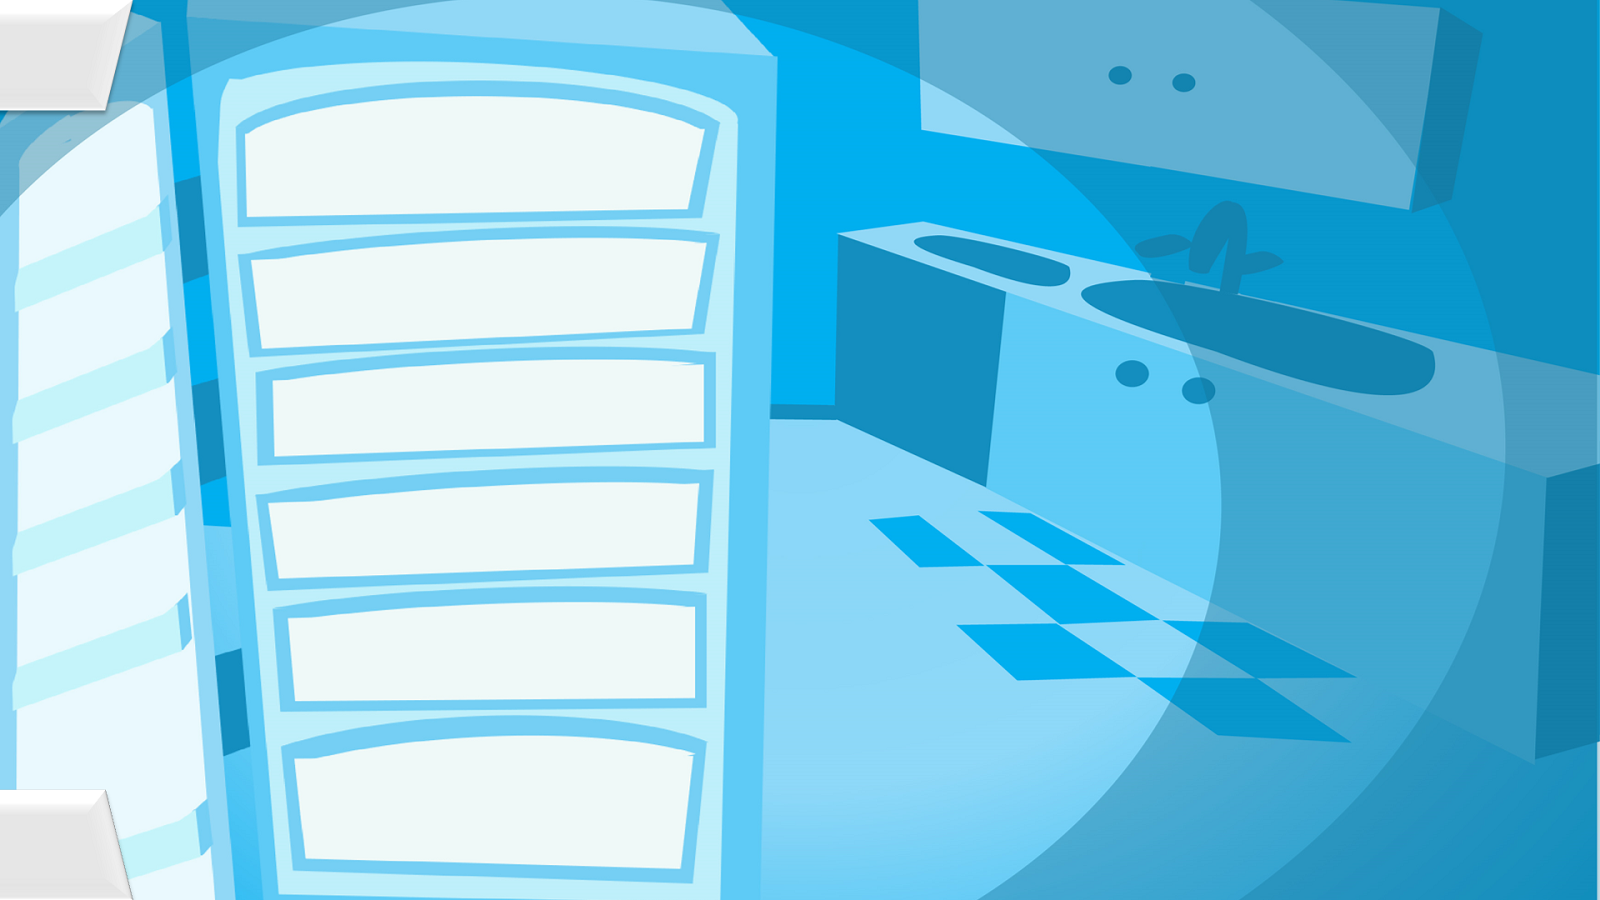
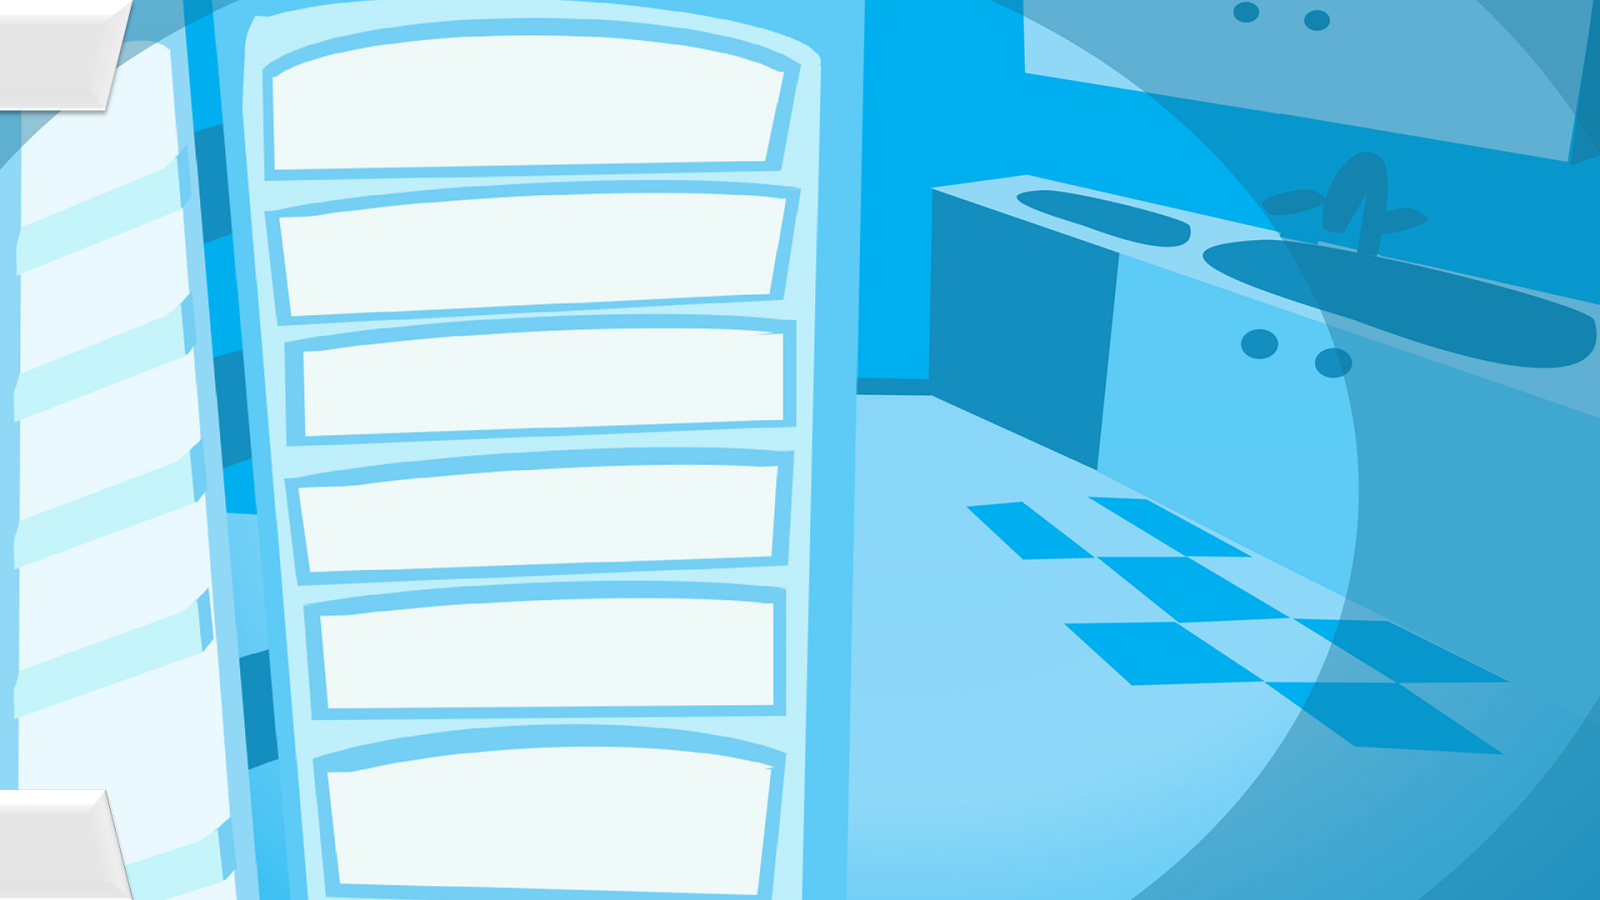
refScene 버튼

diff --git a/src/Scene/RefrigeratorScene.java b/src/Scene/RefrigeratorScene.java
@@ -89,44 +89,52 @@ public class RefrigeratorScene extends SceneAbst
       
       
       ScrollPane scrollPanel = new ScrollPane(ScrollPane.SCROLLBARS_AS_NEEDED);
-      scrollPanel.setBounds(300,215,450,120);
-      //scrollPanel.setBackground(Color.green);
+      scrollPanel.setBounds(300,215,450,105);      
+      /*JScrollPane scrollPanel = new JScrollPane();
+      scrollPanel.setBounds(300,215,450,105);
+      scrollPanel.setOpaque(false);*/
             
       linePanel2=new JPanel();
       linePanel2.setLayout(new FlowLayout());
       // linePanel2.setLayout(null);
-      //linePanel2.setBounds(290, 250, 410, 80);
-      //linePanel2.setBackground(Color.black);
+      //linePanel2.setBounds(290, 250, 410, 80);\
       linePanel2.setOpaque(false);
       scrollPanel.add(linePanel2);
       add(scrollPanel);
       
       linePanel3=new JPanel();
       linePanel3.setLayout(null);
-      linePanel3.setBounds(290,300,410,80);
+      linePanel3.setBounds(330,335,410,100);
       //linePanel3.setBackground(Color.black);
+      linePanel3.setOpaque(false);
       add(linePanel3);
       
+      ScrollPane scrollPanel2 = new ScrollPane(ScrollPane.SCROLLBARS_AS_NEEDED);
+      scrollPanel2.setBounds(290,490,480,105);  
+      
       linePanel4=new JPanel();
-      linePanel4.setLayout(null);
-      linePanel4.setBounds(290,490,410,80);
+      linePanel4.setLayout(new FlowLayout());
+      linePanel4.setBounds(290,490,480,100);
       //linePanel4.setBackground(Color.black);
-      add(linePanel4);
+      scrollPanel2.add(linePanel4);
+      add(scrollPanel2);
       
       linePanel5=new JPanel();
       linePanel5.setLayout(null);
-      linePanel5.setBounds(290,610,410,80);
+      linePanel5.setBounds(320,610,460,100);
+      linePanel5.setOpaque(false);
       //linePanel5.setBackground(Color.black);
       add(linePanel5);
       
       linePanel6=new JPanel();
       linePanel6.setLayout(null);
-      linePanel6.setBounds(290,760,410,80);
+      linePanel6.setBounds(320,760,460,100);
+      linePanel6.setOpaque(false);
       //linePanel6.setBackground(Color.black);
       add(linePanel6);
       
       // 배경
-      imgBackground = new ImageIcon("images/refBackground.jpg");
+      imgBackground = new ImageIcon("images/refBackground.png");
       lblBackground = new JLabel();
       lblBackground.setIcon(imgBackground);
       lblBackground.setBounds(0, 0, 1600, 900);
@@ -150,7 +158,7 @@ public class RefrigeratorScene extends SceneAbst
       btnIngredients_3=new JButton[3];
       for(int i=0 ; i<3 ; i++) {
          btnIngredients_3[i]=new JButton();
-         btnIngredients_3[i].setBounds(30+150*i, 18, 45, 45);
+         btnIngredients_3[i].setBounds(30+150*i, 18, 65, 65);
          linePanel3.add(btnIngredients_3[i]);
       }//3라인
       
@@ -158,21 +166,22 @@ public class RefrigeratorScene extends SceneAbst
       btnIngredients_4=new JButton[7];
       for(int i=0 ; i<7 ; i++) {
          btnIngredients_4[i]=new JButton();
-         btnIngredients_4[i].setBounds(30+50*i, 18, 45, 45);
+         //btnIngredients_4[i].setBounds(30+50*i, 18, 65, 65);
+         btnIngredients_4[i].setPreferredSize(new Dimension(65,65));
          linePanel4.add(btnIngredients_4[i]);
       }//4라인
       
       btnIngredients_5=new JButton[6];
       for(int i=0 ; i<6 ; i++) {
          btnIngredients_5[i]=new JButton();
-         btnIngredients_5[i].setBounds(30+60*i, 18, 45, 45);
+         btnIngredients_5[i].setBounds(10+75*i, 18, 65, 65);
          linePanel5.add(btnIngredients_5[i]);
       }//5라인
       
       btnIngredients_6=new JButton[7];
       for(int i=0 ; i<7 ; i++) {
          btnIngredients_6[i]=new JButton();
-         btnIngredients_6[i].setBounds(30+50*i, 18, 45, 45);
+         btnIngredients_6[i].setBounds(10+75*i, 18, 65, 65);
          linePanel6.add(btnIngredients_6[i]);
       }//6라인
    }
